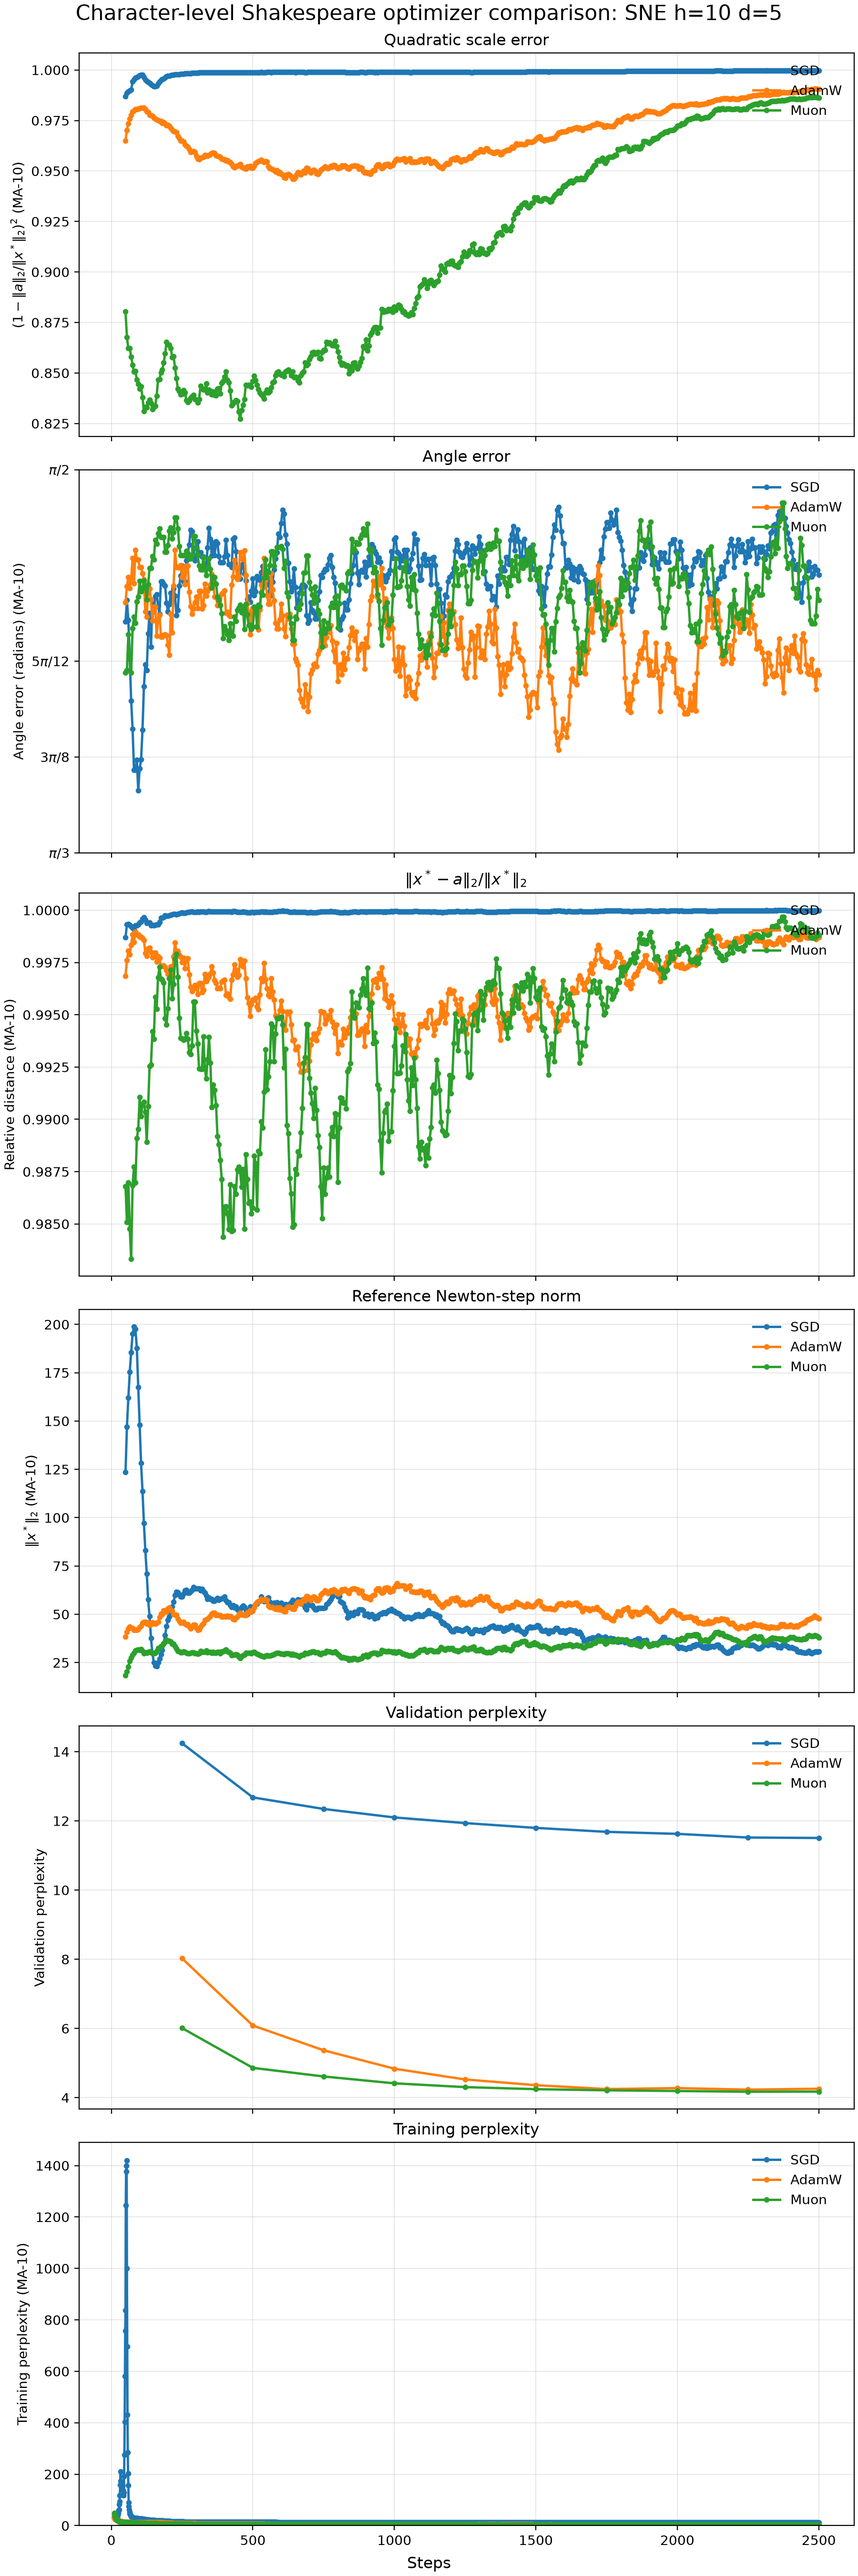
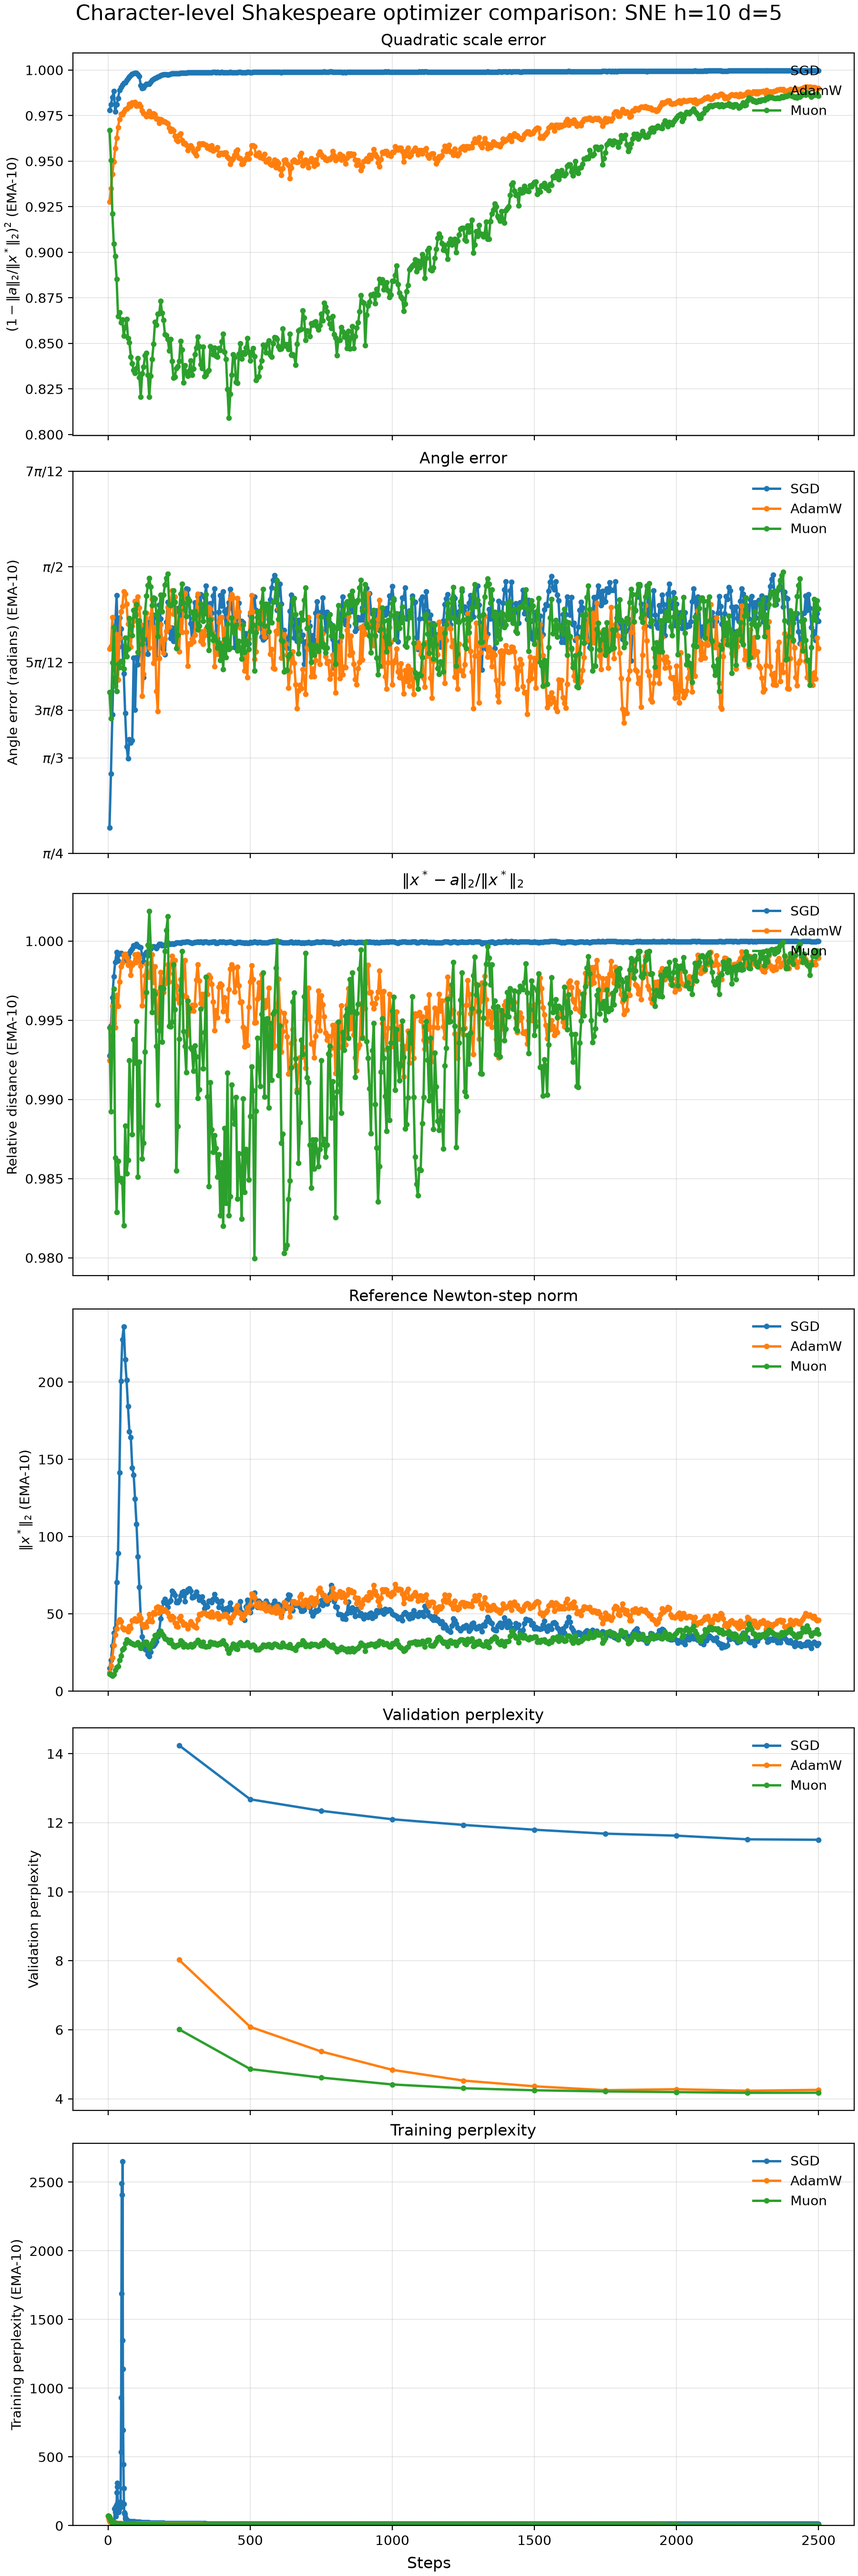
Replot dashboard with exponential moving averages

diff --git a/index.html b/index.html
@@ -127,7 +127,7 @@
             per step and interval \(d=10\), hence sketch size \(m=20\). Training loss
             is recorded every step, the three geometric measurements every ten steps,
             and validation accuracy once per epoch. The geometric and training curves
-            use a 100-sample moving average; validation remains unsmoothed. Scale is
+            use an EMA-100 with \(\lambda^{100}=0.01\); validation remains unsmoothed. Scale is
             reported exclusively as \((1-\|a\|_2/\|x^*\|_2)^2\).
           </p>
         </header>
@@ -217,7 +217,7 @@
             momentum changes, leaving the auxiliary AdamW path fixed; for AdamW the
             sweep changes \(\beta_1\) while \(\beta_2=0.999\); for SGD it changes the
             conventional momentum coefficient. SNE again uses \(h=2\), \(d=10\), and
-            \(m=20\), with MA-100 applied only to geometry and training loss and raw
+            \(m=20\), with EMA-100 (\(\lambda^{100}=0.01\)) applied only to geometry and training loss and raw
             validation accuracy retained at one observation per epoch.
           </p>
         </header>
@@ -317,7 +317,7 @@
             step, geometry every five steps, and validation cross-entropy over 200
             batches every 250 steps. The model remains in training mode while an RNG
             snapshot replays the forward-pass dropout realization inside estimator
-            closures. Geometry and training use MA-10, validation remains raw, and
+            closures. Geometry and training use EMA-10 (\(\lambda^{10}=0.01\)), validation remains raw, and
             both task losses are shown as perplexity. Scale error is
             \((1-\|a\|_2/\|x^*\|_2)^2\).
           </p>

diff --git a/scripts/build_dashboard_plots.py b/scripts/build_dashboard_plots.py
@@ -29,6 +29,9 @@ LANGUAGE_METRICS = (
     "validation_losses",
     "train_losses",
 )
+MOVING_AVERAGE_TYPES = ("simple", "exponential")
+DEFAULT_MOVING_AVERAGE_TYPE = "exponential"
+DEFAULT_MOVING_AVERAGE_EPSILON = 0.01
 NONNEGATIVE_METRICS = {
     "quadratic_scale_distances",
     "relative_distances",
@@ -271,6 +274,8 @@ def plotted_values(
     window_size: int,
     *,
     perplexity: bool,
+    moving_average_type: str,
+    moving_average_epsilon: float,
 ) -> tuple[float, ...]:
     from optibench.plot_training_results import moving_average
 
@@ -283,7 +288,12 @@ def plotted_values(
     if metric in {"validation_accuracies", "validation_losses"}:
         plotted = values
     else:
-        plotted = moving_average(values, min(window_size, len(values)))
+        plotted = moving_average(
+            values,
+            window_size,
+            kind=moving_average_type,
+            epsilon=moving_average_epsilon,
+        )
     if perplexity and metric in {"validation_losses", "train_losses"}:
         return tuple(math.exp(value) for value in plotted)
     return plotted
@@ -313,6 +323,9 @@ def shared_limits(
     section: SectionSpec,
     optibench_root: Path,
     default_window_size: int,
+    *,
+    moving_average_type: str,
+    moving_average_epsilon: float,
 ) -> tuple[dict[str, tuple[float, float]], dict[str, list[object]]]:
     from optibench.plot_training_results import read_optimizer_series
 
@@ -338,6 +351,8 @@ def shared_limits(
                         metric,
                         window_size,
                         perplexity=section.perplexity,
+                        moving_average_type=moving_average_type,
+                        moving_average_epsilon=moving_average_epsilon,
                     )
                 )
     return (
@@ -349,13 +364,21 @@ def shared_limits(
     )
 
 
-def build(optibench_root: Path, *, window_size: int = 100) -> None:
+def build(
+    optibench_root: Path,
+    *,
+    window_size: int = 100,
+    moving_average_type: str = DEFAULT_MOVING_AVERAGE_TYPE,
+    moving_average_epsilon: float = DEFAULT_MOVING_AVERAGE_EPSILON,
+) -> None:
     sys.path.insert(0, str(optibench_root / "src"))
     from optibench.plot_training_results import plot_optimizer_comparison
 
     manifest: dict[str, object] = {
         "scale_error": "quadratic",
         "window_size": window_size,
+        "moving_average_type": moving_average_type,
+        "moving_average_epsilon": moving_average_epsilon,
         "section_window_sizes": {
             section.name: section.window_size or window_size for section in SECTIONS
         },
@@ -364,12 +387,20 @@ def build(optibench_root: Path, *, window_size: int = 100) -> None:
     }
     for section in SECTIONS:
         section_window_size = section.window_size or window_size
-        limits, _ = shared_limits(section, optibench_root, window_size)
+        limits, _ = shared_limits(
+            section,
+            optibench_root,
+            window_size,
+            moving_average_type=moving_average_type,
+            moving_average_epsilon=moving_average_epsilon,
+        )
         output_dir = DASHBOARD_ROOT / section.output_dir
         output_dir.mkdir(parents=True, exist_ok=True)
         section_manifest = {
             "shared_y_limits": limits,
             "window_size": section_window_size,
+            "moving_average_type": moving_average_type,
+            "moving_average_epsilon": moving_average_epsilon,
             "perplexity": section.perplexity,
             "figures": [],
         }
@@ -382,6 +413,8 @@ def build(optibench_root: Path, *, window_size: int = 100) -> None:
                 title=figure.title,
                 output_dir=output_dir,
                 window_size=section_window_size,
+                moving_average_type=moving_average_type,
+                moving_average_epsilon=moving_average_epsilon,
                 perplexity=section.perplexity,
                 scale_error="quadratic",
                 y_limits=limits,
@@ -412,9 +445,25 @@ def parse_args() -> argparse.Namespace:
         default=DEFAULT_OPTIBENCH_ROOT,
     )
     parser.add_argument("--window-size", type=int, default=100)
+    parser.add_argument(
+        "--moving-average-type",
+        choices=MOVING_AVERAGE_TYPES,
+        default=DEFAULT_MOVING_AVERAGE_TYPE,
+    )
+    parser.add_argument(
+        "--moving-average-epsilon",
+        "--ma-epsilon",
+        type=float,
+        default=DEFAULT_MOVING_AVERAGE_EPSILON,
+    )
     return parser.parse_args()
 
 
 if __name__ == "__main__":
     arguments = parse_args()
-    build(arguments.optibench_root.expanduser().resolve(), window_size=arguments.window_size)
+    build(
+        arguments.optibench_root.expanduser().resolve(),
+        window_size=arguments.window_size,
+        moving_average_type=arguments.moving_average_type,
+        moving_average_epsilon=arguments.moving_average_epsilon,
+    )

diff --git a/README.md b/README.md
@@ -14,8 +14,11 @@ The builder computes each row's limits from every curve in its section after
 that section's configured moving average, then supplies those same limits to every
 separate six-row figure. It writes the exact source paths and numeric limits to
 `assets/plots/manifest.json`. Validation curves remain unsmoothed, and scale
-error is always quadratic. CIFAR sections use MA-100; the character-level
-Shakespeare section uses MA-10 and displays task losses as perplexity.
+error is always quadratic. Exponential moving average is the default, with
+`decay = epsilon ** (1 / window_size)` and `epsilon = 0.01`; simple trailing
+moving average remains selectable. CIFAR sections use EMA-100; the
+character-level Shakespeare section uses EMA-10 and displays task losses as
+perplexity.
 
 The figures used by the original dashboard are retained verbatim under
 `assets/archive/legacy-plots/` and are not referenced by the active page.
